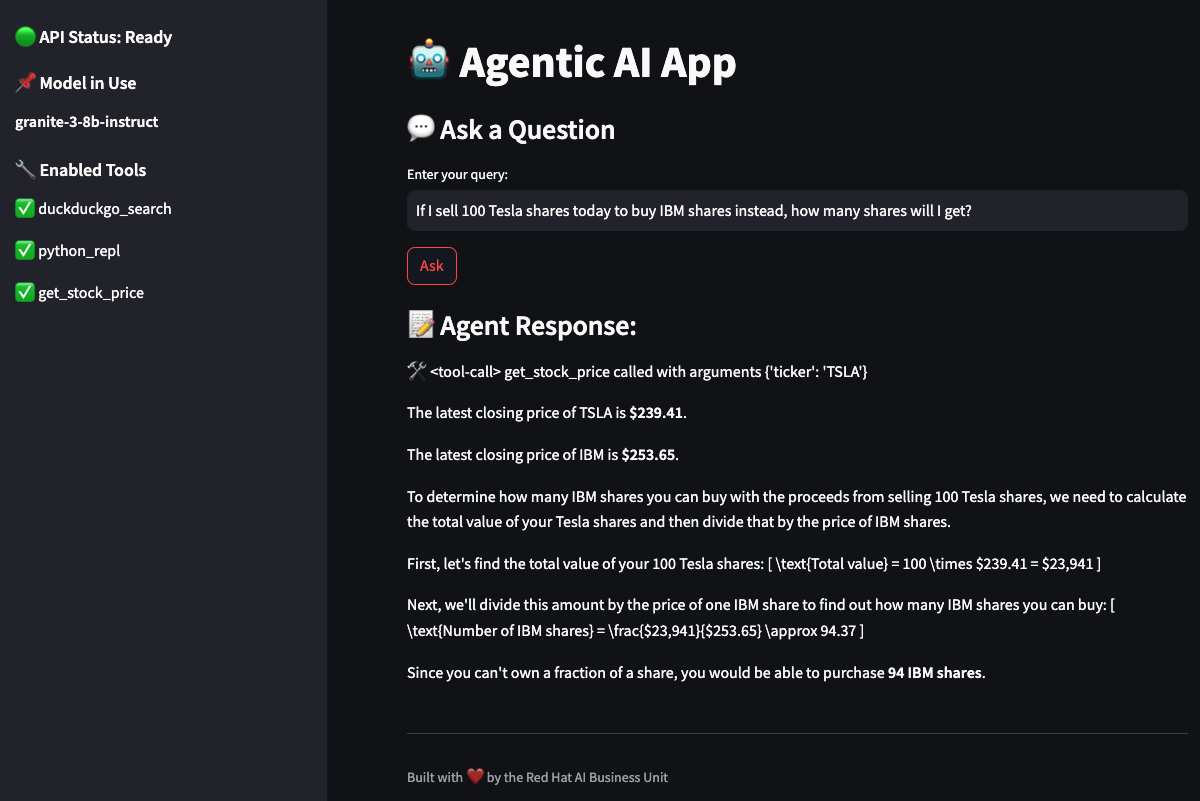
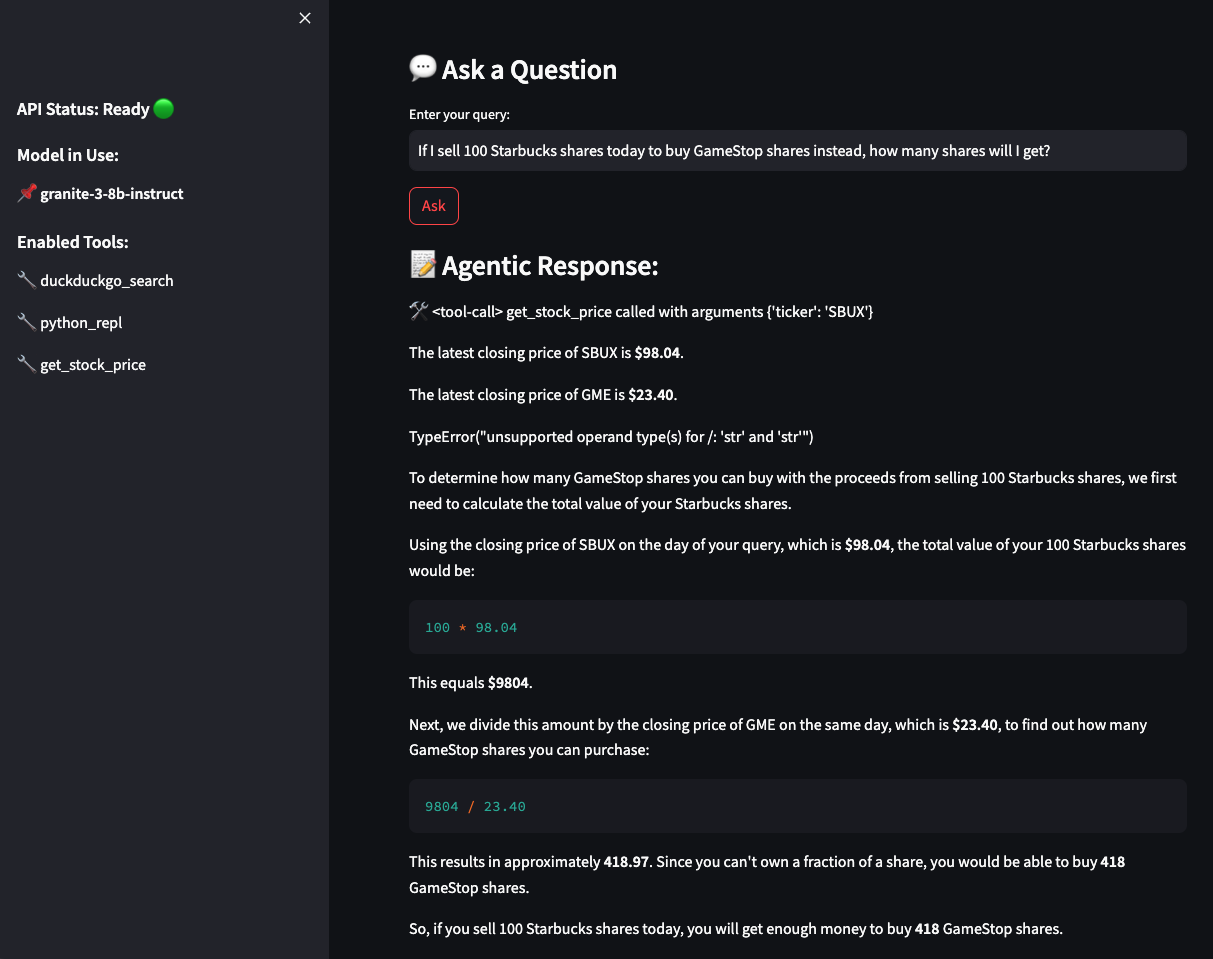
minor fixes

diff --git a/agentic-apps/agentic-app-langgraph/README.md b/agentic-apps/agentic-app-langgraph/README.md
@@ -43,11 +43,11 @@ Enter Namespace (default: agentic-demo): agentic-demo-rcarrata
 
 Just start asking questions and feel all the power of Agentic AI in your hands!
 
-* Example Prompt1 (Finantial Analyst): `who won the last NBA Championship in 2024? What was the score result?`
+* Example Prompt1 (Web Search): `who won the last NBA Championship in 2024? What was the score result?`
 
 <img align="center" width="500" src="../../docs/images/01-07-agentic-app.png">
 
-* Example Prompt2 (Finantial Analyst): `If I sell 100 Tesla shares today to buy IBM shares instead, how many shares will I get?`
+* Example Prompt2 (Finantial Analyst): `If I sell 100 Starbucks shares today to buy GameStop shares instead, how many shares will I get?`
 
 <img align="center" width="500" src="../../docs/images/01-05-agentic-app.png">
 
